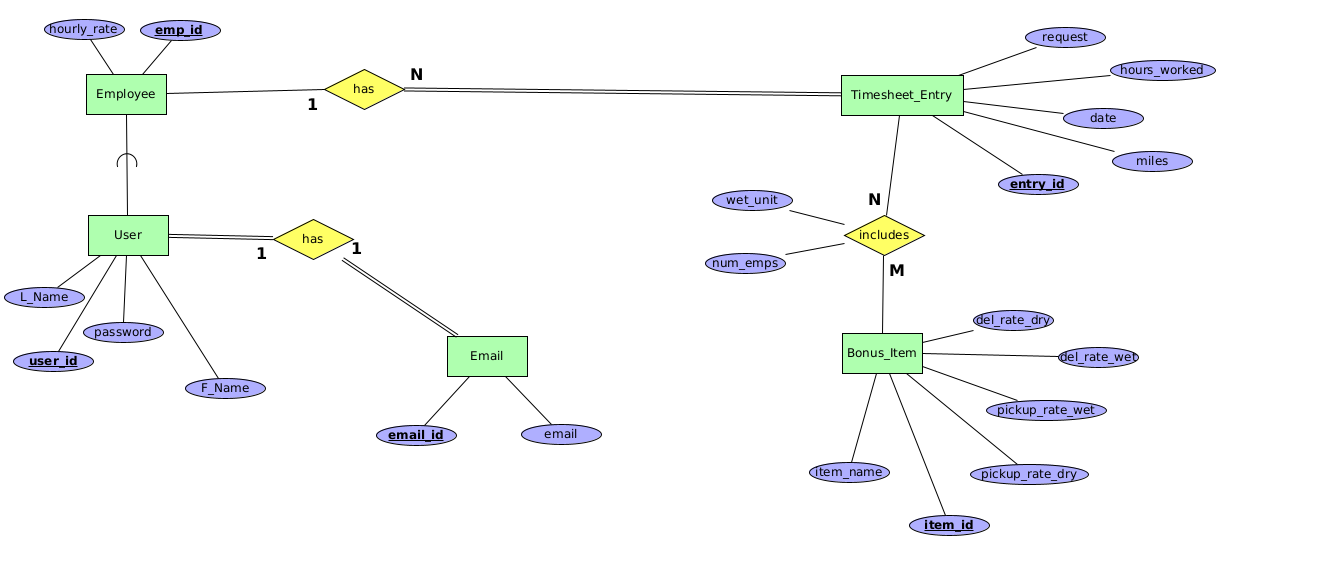
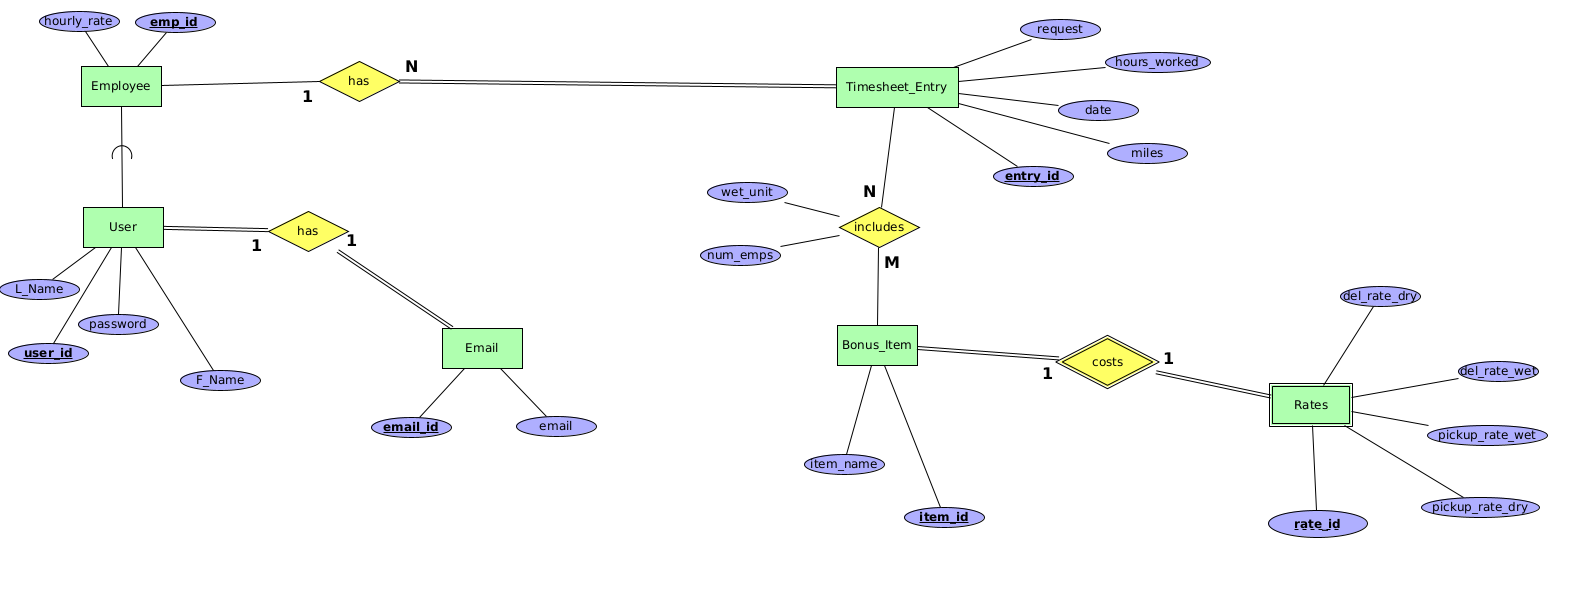
Update Models, add sql statements for employee details

diff --git a/api/src/controllers/employee.controller.ts b/api/src/controllers/employee.controller.ts
@@ -1,6 +1,6 @@
 import { NextFunction, Request, Response } from "express";
 import { addItemEntry } from "../models/ItemEntry";
-import { createEntry } from "../models/Timesheet";
+import { createEntry, getBonusTotal, getHoursMiles } from "../models/Timesheet";
 
 export const addTimesheetEntry = async (
   req: Request,
@@ -10,9 +10,7 @@ export const addTimesheetEntry = async (
   try {
     const { miles, hours, date, empID } = req.body;
     const dateEntry = new Date(date);
-    console.log(date);
-    const entry = await createEntry(dateEntry, hours, miles, empID);
-    console.log(entry);
+    await createEntry(dateEntry, hours, miles, empID);
     res.json({
       miles: miles,
       hours: hours,
@@ -30,18 +28,47 @@ export const addBonus = async (
   res: Response,
   next: NextFunction
 ) => {
-  const { entryID, itemID, wetUnit, numEmps } = req.body;
-  const isWet: boolean = wetUnit === "true";
-  const item = await addItemEntry(entryID, itemID, isWet, numEmps);
-  console.log(item);
-  res.json({
-    entryID: entryID,
-    itemID: itemID,
-    wetUnit: isWet,
-    numEmps: numEmps,
-  });
-  res.status(200).send();
   try {
+    const { entryID, itemID, wetUnit, numEmps, pickup } = req.body;
+    const isWet: boolean = wetUnit === "true";
+    const isPickup: boolean = pickup === "true";
+    const item = await addItemEntry(entryID, itemID, isWet, numEmps, pickup);
+    console.log(item);
+    res.json({
+      entryID: entryID,
+      itemID: itemID,
+      wetUnit: isWet,
+      numEmps: numEmps,
+      pickup: isPickup,
+    });
+    res.status(200).send();
+  } catch (err) {
+    next(err);
+  }
+};
+
+export const getEmpHoursMiles = async (
+  req: Request,
+  res: Response,
+  next: NextFunction
+) => {
+  try {
+    const beginDate: Date = new Date(req.query.beginDate as string);
+    const endDate: Date = new Date(req.query.endDate as string);
+    const empID: number = parseInt(req.query.empID as string);
+
+    // const ret = await getHoursMiles(empID, beginDate, endDate);
+    const ret = await getBonusTotal(empID, beginDate, endDate);
+    console.log(ret);
+
+    // res.json({
+    //   // employeeID: ret.id,
+    //   // fName: ret.first_name,
+    //   // lName: ret.last_name,
+    //   hours: ret.hours,
+    //   miles: ret.miles,
+    // });
+    res.status(200).send();
   } catch (err) {
     next(err);
   }

diff --git a/api/src/db/migrations/20220607202026_initial.ts b/api/src/db/migrations/20220607202026_initial.ts
@@ -5,7 +5,7 @@ export async function up(knex: Knex): Promise<void> {
     table.increments().notNullable();
     table.string("email").unique().notNullable();
   });
-  await knex.schema.createTable("user", (table) => {
+  await knex.schema.createTable("users", (table) => {
     table.increments("id").notNullable();
     table.string("first_name").notNullable();
     table.string("last_name").notNullable();
@@ -31,18 +31,17 @@ export async function up(knex: Knex): Promise<void> {
     table.decimal("hours", 14, 2);
     table.date("date").notNullable();
     table.integer("emp_id").unsigned().references("id").inTable("employee");
+    table.unique(["date", "emp_id"]);
   });
 
   await knex.schema.createTable("bonus_item", (table) => {
     table.increments().notNullable();
     table.string("name").notNullable();
-    table.integer("pickup_rate_dry").notNullable();
-    table.integer("pickup_rate_wet").notNullable();
-    table.integer("del_rate_dry").notNullable();
-    table.integer("del_rate_wet").notNullable();
   });
 
   await knex.schema.createTable("item_entry", (table) => {
+    table.increments().notNullable();
+    table.boolean("pickup").notNullable();
     table.boolean("wet_unit").notNullable();
     table.integer("num_emps").notNullable();
     table
@@ -51,7 +50,15 @@ export async function up(knex: Knex): Promise<void> {
       .references("id")
       .inTable("timesheet_entry");
     table.integer("item_id").unsigned().references("id").inTable("bonus_item");
-    table.primary(["entry_id", "item_id"]);
+  });
+
+  await knex.schema.createTable("rates", (table) => {
+    table.increments().notNullable();
+    table.integer("pickup_rate_dry").notNullable();
+    table.integer("pickup_rate_wet").notNullable();
+    table.integer("del_rate_dry").notNullable();
+    table.integer("del_rate_wet").notNullable();
+    table.integer("item_id").unsigned().references("id").inTable("bonus_item");
   });
 }
 
@@ -60,7 +67,8 @@ export async function down(knex: Knex): Promise<void> {
     [
       "item_entry",
       "timesheet_entry",
-      "user",
+      "users",
+      "rates",
       "bonus_item",
       "employee",
       "email",

diff --git a/api/src/models/Timesheet.ts b/api/src/models/Timesheet.ts
@@ -22,5 +22,57 @@ export const createEntry = async (
     miles: miles,
     emp_id: emp_id,
   });
-  return result[0];
+  return result;
+};
+
+export const getTotal = async (beginDate: Date, endDate: Date) => {};
+
+export const getHoursMiles = async (
+  empID: number,
+  beginDate: Date,
+  endDate: Date
+) => {
+  console.log(empID);
+  const total = await pg
+    .select("employee.id", "first_name", "last_name")
+    .sum({ hours: "hours", miles: "miles" })
+    .from(tableName)
+    .rightJoin("employee", function () {
+      this.on("employee.id", "=", "timesheet_entry.emp_id");
+    })
+    .join("users", function () {
+      this.on("employee.email_id", "=", "users.email_id");
+    })
+    .where("employee.id", empID)
+    .andWhereBetween("date", [beginDate, endDate])
+    .groupBy("employee.id", "first_name", "last_name");
+  return total[0];
+};
+
+export const getBonusTotal = async (
+  empID: number,
+  beginDate: Date,
+  endDate: Date
+) => {
+  var coalesce = pg.raw(
+    "sum(coalesce((case when pickup AND wet_unit IS NOT TRUE then rates.pickup_rate_dry end),(case when pickup AND wet_unit then pickup_rate_wet end),(case when pickup IS NOT TRUE AND wet_unit IS NOT TRUE then del_rate_wet end),(case when pickup IS NOT TRUE AND wet_unit then del_rate_dry end))) as earned"
+  );
+
+  const ret = await pg
+    .select("timesheet_entry.emp_id", coalesce)
+    .from(tableName)
+    .join("item_entry", function () {
+      this.on("item_entry.entry_id", "=", "timesheet_entry.id");
+    })
+    .join("bonus_item", function () {
+      this.on("bonus_item.id", "=", "item_entry.item_id");
+    })
+    .join("rates", function () {
+      this.on("rates.item_id", "=", "bonus_item.id");
+    })
+    .whereBetween("date", [beginDate, endDate])
+    .groupBy("timesheet_entry.emp_id")
+    .having("timesheet_entry.emp_id", "=", empID);
+
+  return ret;
 };

diff --git a/api/src/models/BonusItem.ts b/api/src/models/BonusItem.ts
@@ -24,14 +24,20 @@ export const addBonusItem = async (
       .table(tableName)
       .insert({
         name: name,
-        pickup_rate_dry: pickupRateDry,
-        pickup_rate_wet: pickupRateWet,
-        del_rate_dry: deliveryRateDry,
-        del_rate_wet: deliveryRateWet,
       })
       .returning("id");
-    console.log(addBonusItem[0].id);
-    return addBonusItem[0].id;
+
+    await pg.table("rates").insert({
+      item_id: addBonusItem[0].id,
+      pickup_rate_dry: pickupRateDry,
+      pickup_rate_wet: pickupRateWet,
+      del_rate_dry: deliveryRateDry,
+      del_rate_wet: deliveryRateWet,
+    });
+    // addBonusItem;
+    // addItemRates;
+    // console.log(addBonusItem[0].id);
+    // return addBonusItem[0].id;
   } catch (err) {
     throw new Error("Error adding item to DB");
   }

diff --git a/api/src/models/ItemEntry.ts b/api/src/models/ItemEntry.ts
@@ -7,22 +7,23 @@ export interface ItemEntry {
   itemID: number;
   wetUnit: boolean;
   numEmps: number;
+  pickup: boolean;
 }
 
 export const addItemEntry = async (
   entryID: number,
   itemId: number,
   wetUnit: boolean,
-  numEmps: number
+  numEmps: number,
+  pickup: boolean
 ) => {
-  const addItem = await pg
-    .table(tableName)
-    .insert({
-      entry_id: entryID,
-      item_id: itemId,
-      wet_unit: wetUnit,
-      num_emps: numEmps,
-    });
+  const addItem = await pg.table(tableName).insert({
+    entry_id: entryID,
+    item_id: itemId,
+    wet_unit: wetUnit,
+    num_emps: numEmps,
+    pickup: pickup,
+  });
 
   return addItem[0];
 };

diff --git a/api/src/routes/index.ts b/api/src/routes/index.ts
@@ -10,6 +10,7 @@ import { protectRoute } from "../middleware/protectRoute";
 import {
   addBonus,
   addTimesheetEntry,
+  getEmpHoursMiles,
 } from "../controllers/employee.controller";
 
 export const router = express.Router();
@@ -22,4 +23,5 @@ router.post("/register", register);
 router.post("/addEmployee", adminAddEmployee);
 router.post("/addBonus", addBonus);
 router.post("/addEntry", addTimesheetEntry);
+router.get("/getMilesHours", getEmpHoursMiles);
 // router.get("/protected", protectRoute, protectedStuff);

diff --git a/api/src/models/User.ts b/api/src/models/User.ts
@@ -1,7 +1,7 @@
 import knex from "knex";
 import pg from "../db";
 
-const tableName = "user";
+const tableName = "users";
 
 export interface User {
   fName?: string;
